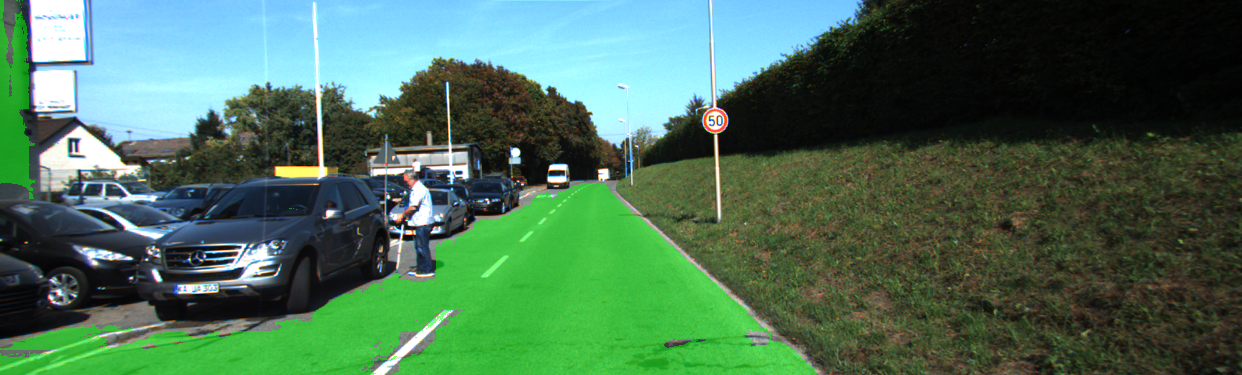
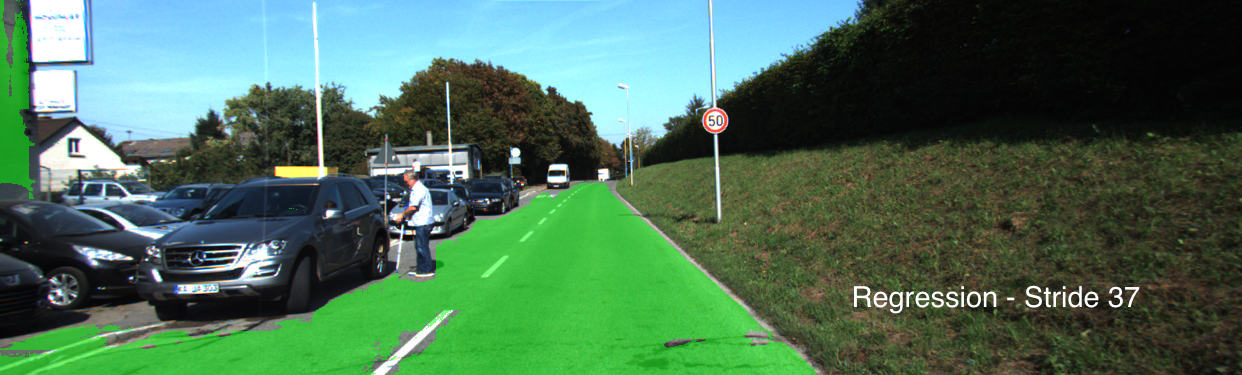
added images

Changed region(s): [[0.6731, 0.7627, 0.9179, 0.8507]]

diff --git a/LaTeX/sliding-window.tex b/LaTeX/sliding-window.tex
@@ -12,15 +12,15 @@
         \end{center}
  \end{frame}
 
-\begin{frame}{Vergleich-Klassifikation/Regression}
+\begin{frame}{Vergleich-Regression/Klassifikation}
   \begin{center}
       \includegraphics[scale=0.24]{../images/Convolutional/um_000014-overlay-fully-49-patch.png}
          \vspace{0.1cm}
-    \includegraphics[scale=0.24]{../images/Convolutional/um_000014-overlay.png}
+    \includegraphics[scale=0.24]{../images/Convolutional/testing-um_14_sliding_stride37.png}
     \end{center}
 \end{frame}
 
-\begin{frame}{Bewertung-Klassifikation/Regression}
+\begin{frame}{Bewertung-Regression/Klassifikation}
 
       
       \begin{table}[h!]
@@ -68,7 +68,9 @@
 
 \begin{frame}{Video}
 
-      Video
+      \begin{center}
+    \includegraphics[scale=0.22]{../images/Convolutional/video_screenshot.png}
+        \end{center}
 
 \end{frame}
 
